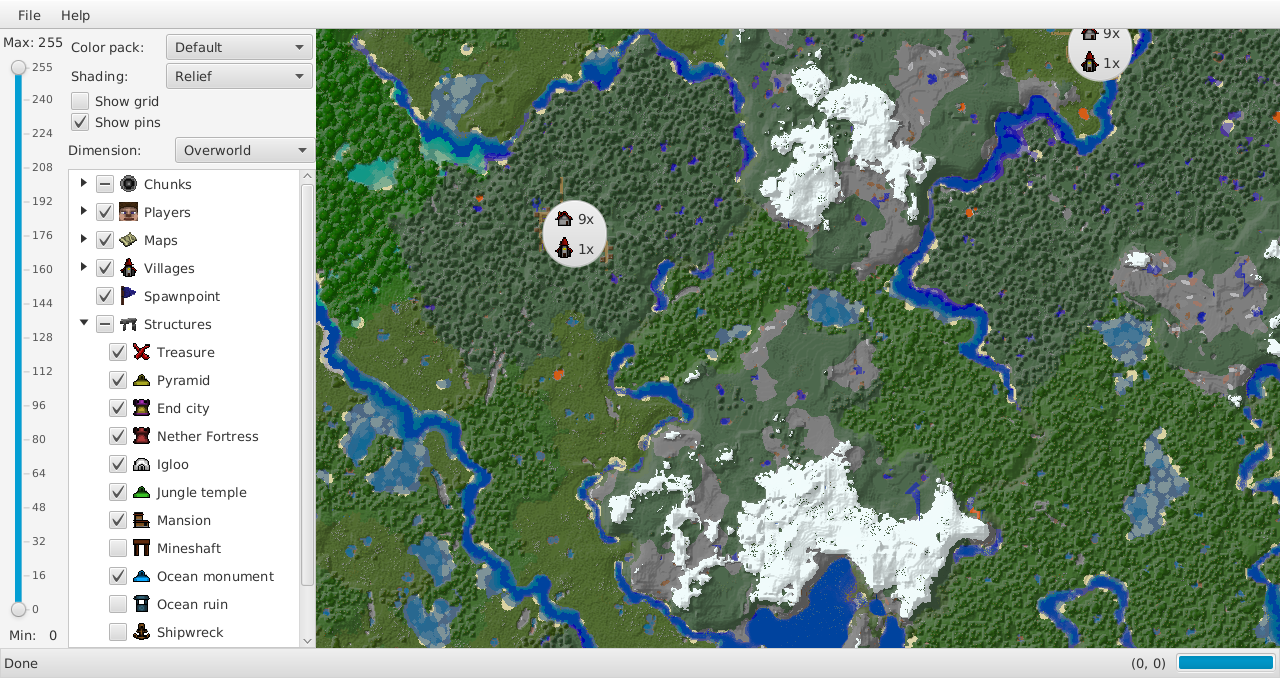
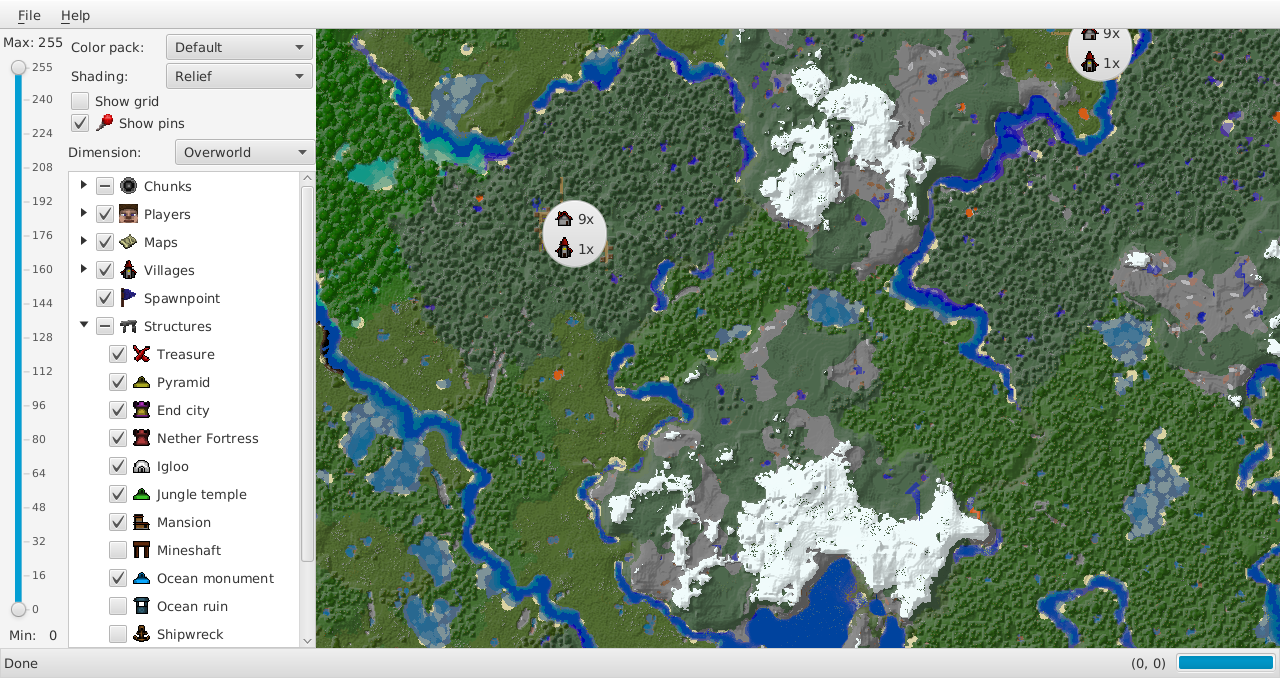
New screenshot and updated screenshots

diff --git a/BlockMap-internal/src/main/java/de/piegames/blockmap/generate/Screenshots.java b/BlockMap-internal/src/main/java/de/piegames/blockmap/generate/Screenshots.java
@@ -25,6 +25,7 @@ import org.joml.Vector2i;
 import com.flowpowered.nbt.regionfile.RegionFile;
 
 import de.piegames.blockmap.color.BlockColorMap;
+import de.piegames.blockmap.gui.decoration.Pin.PinType;
 import de.piegames.blockmap.guistandalone.GuiMain;
 import de.piegames.blockmap.guistandalone.RegionFolderProvider.WorldRegionFolderProvider;
 import de.piegames.blockmap.renderer.RegionRenderer;
@@ -112,8 +113,7 @@ public class Screenshots {
 						GuiMain.instance.stage.hide();
 						GuiMain.instance.stage.show();
 						GuiMain.instance.controller.load(
-								new WorldRegionFolderProvider(
-										Paths.get(URI.create(Generator.class.getResource("/BlockMapWorld/").toString())), renderer) {
+								new WorldRegionFolderProvider(Generator.OUTPUT_INTERNAL_CACHE.resolve("BlockMapWorld"), renderer) {
 									/** Override this method to hide the file structure of the local system from the screenshots */
 									@Override
 									public String getLocation() {
@@ -133,7 +133,7 @@ public class Screenshots {
 						return true;
 					},
 					() -> {
-						log.info("Taking single screenshot");
+						log.info("Taking screenshot 1");
 						WritableImage img = GuiMain.instance.stage.getScene().snapshot(null);
 						try (OutputStream out = Files.newOutputStream(Generator.OUTPUT_SCREENSHOTS.resolve("screenshot-3.png"))) {
 							ImageIO.write(SwingFXUtils.fromFXImage(img, null), "png", out);
@@ -141,16 +141,63 @@ public class Screenshots {
 							log.error(e);
 						}
 						return true;
+					},
+					() -> {
+						/* Show all pins visible by default plus all structures */
+						GuiMain.instance.controller.pinView.getCheckModel().check(GuiMain.instance.controller.checkedPins.get(PinType.STRUCTURE_MINESHAFT));
+						GuiMain.instance.controller.pinView.getCheckModel().check(GuiMain.instance.controller.checkedPins.get(PinType.STRUCTURE_OCEAN_RUIN));
+						GuiMain.instance.controller.pinView.getCheckModel().check(GuiMain.instance.controller.checkedPins.get(PinType.STRUCTURE_SHIPWRECK));
+						GuiMain.instance.controller.renderer.viewport.translationProperty.set(new Vector2d(1024, -1200));
+						GuiMain.instance.controller.renderer.viewport.zoomProperty.set(-1);
+						GuiMain.instance.controller.renderer.repaint();
+						return true;
+					},
+					() -> {
+						Thread.sleep(5000);
+						GuiMain.instance.controller.renderer.repaint();
+						return true;
+					},
+					() -> {
+						Thread.sleep(5000);
+						GuiMain.instance.controller.renderer.repaint();
+						return true;
+					},
+					() -> {
+						Thread.sleep(5000);
+						GuiMain.instance.controller.renderer.repaint();
+						return true;
+					},
+					() -> {
+						log.info("Taking screenshot 2");
+						WritableImage img = GuiMain.instance.stage.getScene().snapshot(null);
+						try (OutputStream out = Files.newOutputStream(Generator.OUTPUT_SCREENSHOTS.resolve("screenshot-4.png"))) {
+							ImageIO.write(SwingFXUtils.fromFXImage(img, null), "png", out);
+						} catch (IOException e) {
+							log.error(e);
+						}
+						GuiMain.instance.controller.pinView.getCheckModel().clearCheck(GuiMain.instance.controller.checkedPins.get(
+								PinType.STRUCTURE_MINESHAFT));
+						GuiMain.instance.controller.pinView.getCheckModel().clearCheck(GuiMain.instance.controller.checkedPins.get(
+								PinType.STRUCTURE_OCEAN_RUIN));
+						GuiMain.instance.controller.pinView.getCheckModel().clearCheck(GuiMain.instance.controller.checkedPins.get(
+								PinType.STRUCTURE_SHIPWRECK));
+						return true;
 					}));
 		}
+
 		{/* zoom gif */
 			log.info("Rendering animated zoom gif");
 			List<Callable<Boolean>> tasks = new ArrayList<>();
 			List<BufferedImage> screenshots = new ArrayList<>();
 			tasks.add(() -> {
+				GuiMain.instance.controller.renderer.viewport.zoomProperty.set(0);
+				GuiMain.instance.controller.renderer.viewport.translationProperty.set(new Vector2d(512, -512));
 				GuiMain.instance.controller.renderer.viewport.mousePosProperty.set(new Vector2d(640, 360));
 				GuiMain.instance.controller.renderer.viewport.zoomProperty.set(7);
 				GuiMain.instance.controller.renderer.repaint();
+				return true;
+			});
+			tasks.add(() -> {
 				Thread.sleep(5000);
 				GuiMain.instance.controller.renderer.repaint();
 				return true;
@@ -159,6 +206,9 @@ public class Screenshots {
 				GuiMain.instance.controller.renderer.viewport.mousePosProperty.set(new Vector2d(640, 360));
 				GuiMain.instance.controller.renderer.viewport.zoomProperty.set(-7);
 				GuiMain.instance.controller.renderer.repaint();
+				return true;
+			});
+			tasks.add(() -> {
 				Thread.sleep(5000);
 				GuiMain.instance.controller.renderer.repaint();
 				return true;
@@ -186,7 +236,7 @@ public class Screenshots {
 
 			log.debug("Writing final gif to disk");
 			GifSequenceWriter writer = new GifSequenceWriter(
-					new FileImageOutputStream(Generator.OUTPUT_SCREENSHOTS.resolve("screenshot-4.gif").toFile()),
+					new FileImageOutputStream(Generator.OUTPUT_SCREENSHOTS.resolve("screenshot-0.gif").toFile()),
 					BufferedImage.TYPE_INT_ARGB, 350, true);
 			try {
 				for (BufferedImage i : screenshots)

diff --git a/BlockMap-standalone/src/main/java/de/piegames/blockmap/guistandalone/GuiController.java b/BlockMap-standalone/src/main/java/de/piegames/blockmap/guistandalone/GuiController.java
@@ -6,6 +6,7 @@ import java.net.URISyntaxException;
 import java.net.URL;
 import java.nio.file.Path;
 import java.util.Collections;
+import java.util.HashMap;
 import java.util.Map;
 import java.util.ResourceBundle;
 import java.util.concurrent.Executors;
@@ -54,6 +55,7 @@ import javafx.scene.control.ChoiceBox;
 import javafx.scene.control.Label;
 import javafx.scene.control.SelectionMode;
 import javafx.scene.control.TextInputDialog;
+import javafx.scene.control.TreeItem;
 import javafx.scene.image.ImageView;
 import javafx.scene.layout.BorderPane;
 import javafx.scene.layout.GridPane;
@@ -93,11 +95,12 @@ public class GuiController implements Initializable {
 	@FXML
 	private CheckBox								pinBox;
 	@FXML
-	private CheckTreeView<PinType>					pinView;
+	public CheckTreeView<PinType>					pinView;
+	public Map<PinType, TreeItem<PinType>>			checkedPins				= new HashMap<>();
 
 	protected MapPane								pane;
 	protected ObjectProperty<Path>					currentPath				= new SimpleObjectProperty<>();
-	protected PinDecoration							pins;
+	public PinDecoration							pins;
 
 	protected ScheduledExecutorService				backgroundThread		= Executors.newSingleThreadScheduledExecutor(
 			new ThreadFactoryBuilder().setNameFormat("pin-background-thread-%d").build());
@@ -168,13 +171,13 @@ public class GuiController implements Initializable {
 			renderer.repaint();
 		});
 
-		// { /* Pin checkbox icon */
-		// ImageView image = new ImageView(PinType.ANY_PIN.image);
-		// image.fitHeightProperty().bind(Bindings.createDoubleBinding(() -> pinBox.getFont().getSize() * 1.0, pinBox.fontProperty()));
-		// image.setSmooth(true);
-		// image.setPreserveRatio(true);
-		// pinBox.setGraphic(image);
-		// }
+		{ /* Pin checkbox icon */
+			ImageView image = new ImageView(PinType.ANY_PIN.image);
+			image.fitHeightProperty().bind(Bindings.createDoubleBinding(() -> pinBox.getFont().getSize() * 1.5, pinBox.fontProperty()));
+			image.setSmooth(true);
+			image.setPreserveRatio(true);
+			pinBox.setGraphic(image);
+		}
 		{ /* Pin tree */
 			initPinCheckboxes(PinType.ANY_PIN, null, pinView);
 			pinView.getSelectionModel().setSelectionMode(SelectionMode.SINGLE);
@@ -270,6 +273,7 @@ public class GuiController implements Initializable {
 			pins.visiblePins.add(type);
 			tree.getCheckModel().check(ret);
 		}
+		checkedPins.put(type, ret);
 	}
 
 	@FXML

diff --git a/BlockMap-internal/src/main/java/de/piegames/blockmap/generate/Generator.java b/BlockMap-internal/src/main/java/de/piegames/blockmap/generate/Generator.java
@@ -161,7 +161,7 @@ public class Generator {
 				.toFile());
 		Path serverFolder = Files.createTempDirectory("generateTestWorldServer");
 		Path serverFile = serverFolder.resolve("server.jar");
-		Files.copy(OUTPUT_INTERNAL_CACHE.resolve("/server-" + MinecraftVersion.LATEST.fileSuffix + ".jar"), serverFile);
+		Files.copy(OUTPUT_INTERNAL_CACHE.resolve("server-" + MinecraftVersion.LATEST.fileSuffix + ".jar"), serverFile);
 		Files.createSymbolicLink(serverFolder.resolve("world"), worldPath.toAbsolutePath());
 
 		Server server = new Server(serverFile, null);

diff --git a/README.md b/README.md
@@ -78,4 +78,5 @@ There is a bug in JavaFX that currently prevents the `run` task to work, so as a
 ![Four rendered region files, each with one with a different color map](screenshots/screenshot-1.png "All existing color maps")
 ![Four rendered region files, each one with a different shader](screenshots/screenshot-2.png "All existing shaders")
 ![Screenshot from the GUI](screenshots/screenshot-3.png "Screenshot from the GUI")
-![Gif of the GUI zooming out in a large world](screenshots/screenshot-4.gif "Works with very large worlds")
+![Screenshot showing different Minecraft structures as pins on the map](screenshots/screenshot-4.png "Wohoo! Pins!")
+![Gif of the GUI zooming out in a large world](screenshots/screenshot-0.gif "Works with very large worlds")
